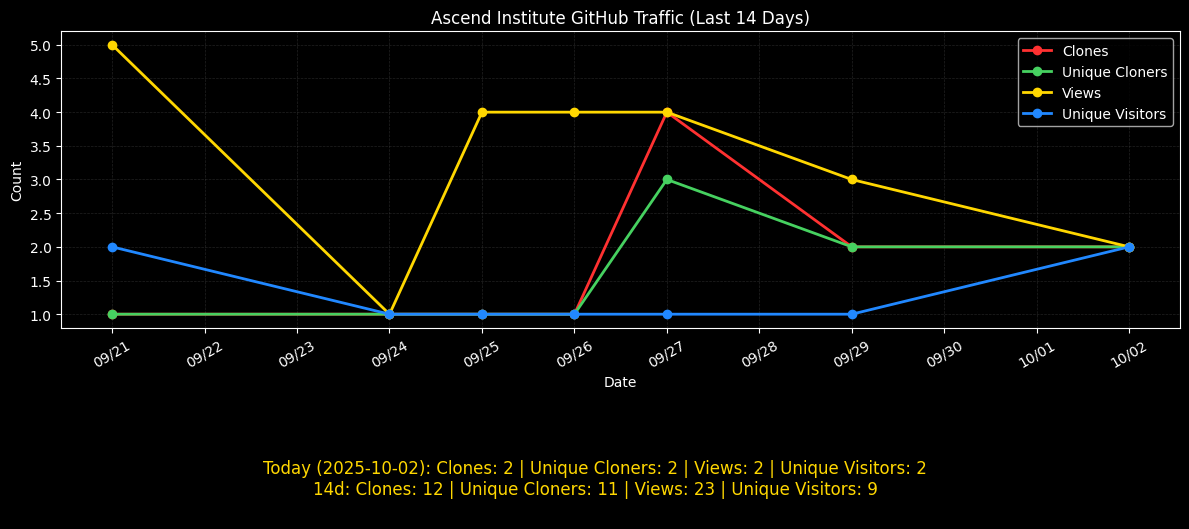
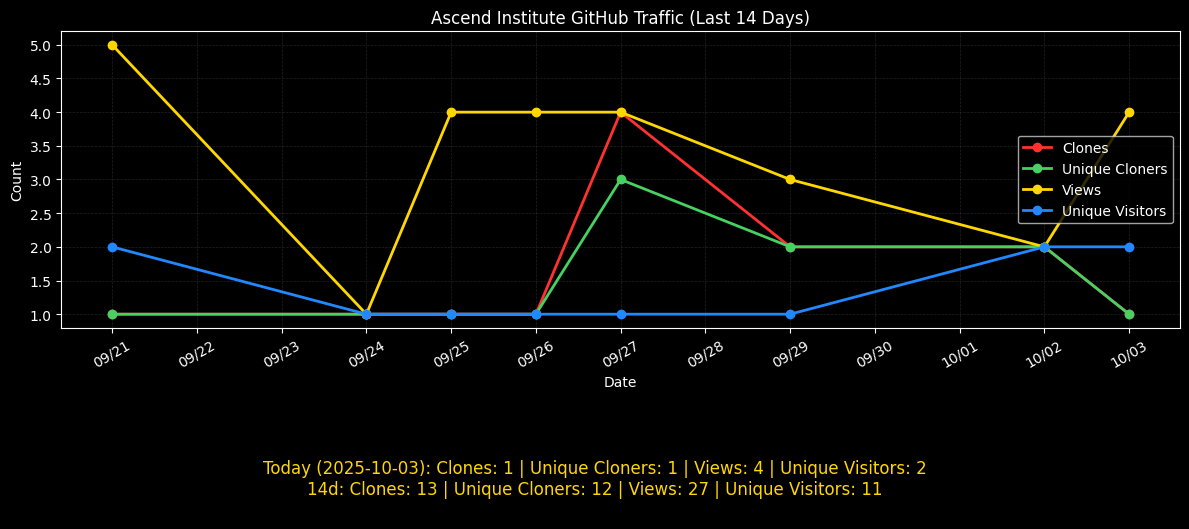
Update traffic data and graph

diff --git a/docs/graph/traffic_totals.md b/docs/graph/traffic_totals.md
@@ -1,6 +1,6 @@
 
 **GitHub Traffic Totals**
 
-- **Today (2025-10-02):** Clones: 2 | Unique Cloners: 2 | Views: 2 | Unique Visitors: 2
-- **Last 14 days:** Clones: 12 | Unique Cloners: 11 | Views: 23 | Unique Visitors: 9
+- **Today (2025-10-03):** Clones: 1 | Unique Cloners: 1 | Views: 4 | Unique Visitors: 2
+- **Last 14 days:** Clones: 13 | Unique Cloners: 12 | Views: 27 | Unique Visitors: 11
 - **Lifetime:** Clones: 39 | Unique Cloners: 38 | Views: 235 | Unique Visitors: 65
